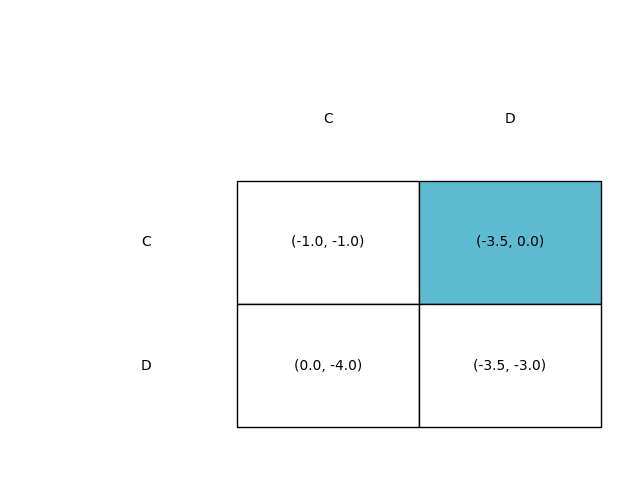
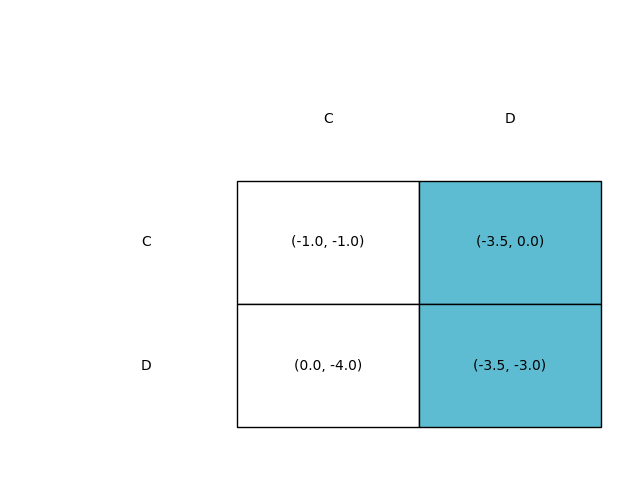
Found a solution using each method, and saved a png for it

Changed region(s): [[0.6562, 0.625, 0.9375, 0.9062]]

diff --git a/Ali_codes/GAMETES/NashEqFinder.py b/Ali_codes/GAMETES/NashEqFinder.py
@@ -513,6 +513,8 @@ class NashEqFinder(object):
                    elapsed_optlang_wt, elapsed_solver_pt,elapsed_solver_wt, \
                    elapsed_run_pt,elapsed_run_wt, \
                    len(self.game.payoff_matrix)) )
+        
+        # return show_matrix(self, self.game.payoff_matri, self.Nash_equilibria, self.strategies, method + "called by optlangFindPure")       
     
     def run(self):
         """
@@ -536,7 +538,7 @@ class NashEqFinder(object):
         elif self.NashEq_type.lower() == 'mixed':
             pass # To be completed
 
-        return [self.Nash_equilibria,self.exit_flag]
+        return [self.Nash_equilibria, self.exit_flag, self.game.payoff_matrix]
 
 
     # Elie
@@ -571,10 +573,11 @@ class NashEqFinder(object):
         def letter_to_position(letter):
             return strategies.index(letter) + 1
             
-        the_table[
-            letter_to_position(nash_equilibria[0][0][1]), 
-            letter_to_position(nash_equilibria[0][1][1])
-            ].set_facecolor('#5dbcd2')
+        for eq in range(len(nash_equilibria)):
+            the_table[
+                letter_to_position(nash_equilibria[eq][0][1]), 
+                letter_to_position(nash_equilibria[eq][1][1])
+                ].set_facecolor('#5dbcd2')
 
         for (row, col), cell in the_table.get_celld().items():
             cell.visible_edges = ''
@@ -584,10 +587,12 @@ class NashEqFinder(object):
         mpl.savefig(method + '.png')
         mpl.show()
 
+        
+
     # Elie
     def validate(self, nasheq_cells, method):
         # Validation: needs removal of hard coded methods
-        print("\n Validation for method %s\n", method)
+        print(f"\n Validation for method {method}\n")
 
         # Helper function
         def string_to_index(string):
@@ -597,6 +602,7 @@ class NashEqFinder(object):
             return (((lst[0],lst[1]), (lst[2],lst[3]))), player, sign
 
         original_payoff_matrix = copy.deepcopy(self.game.payoff_matrix)
+        
 
         # Creating new payoff matrix (i.e. the result of perterbations)
         for var_name, var in self.optModel.variables.items():
@@ -612,12 +618,15 @@ class NashEqFinder(object):
         
         # Define an instance of the NashEqFinder
         NashEqFinderInst = NashEqFinder(self.game, stdout_msgs = True)
-        [Nash_equilibria,exit_flag] = NashEqFinderInst.optlangRun()
+        [Nash_equilibria, exit_flag, _game_payoff_matrix] = NashEqFinderInst.optlangRun()
 
-        print("DONE")
+
+        self.show_matrix(original_payoff_matrix, Nash_equilibria, self.game.players_strategies['row'], method="Original_solution")
+
         
-        print ('exit_flag = ',exit_flag)
-        print ('Nash_equilibria = ',Nash_equilibria )
+        print(f"Validation for {method} returned these results:")
+        print ('exit_flag = ', exit_flag)
+        print ('Nash_equilibria = ', Nash_equilibria)
         for desired_state in nasheq_cells:
             if list(desired_state) in Nash_equilibria:
                 print('DESIRED STATE', desired_state, "ACHIEVED with these perturbations")
@@ -630,6 +639,7 @@ class NashEqFinder(object):
 
         print('self.game.players_strategies', self.game.players_strategies)
         self.show_matrix(self.game.payoff_matrix, Nash_equilibria, self.game.players_strategies['row'], method)
+        print(f"DONE Validation of {method}")
 
     # Elie
     def newEquilibria(self, nasheq_cells, strategies):
@@ -645,10 +655,13 @@ class NashEqFinder(object):
         As the objective function then, you minimize sum of all aa^+'s and 
         aa^-'s for all payoff. 
 
+        return: a model with the solutions' final model, which contains the 
+                optimal value of the variables and more
+
         """   
 
         # Adding new variables 
-        model = optlang.Model(name='Original Model')
+        model = optlang.Model(name=f'Original Model')
         model.players = self.game.players_names
         indices = [tuple([k3 for k2 in k1 for k3 in k2]) for k1 in self.game.payoff_matrix.keys()]
         new_indices = []
@@ -729,49 +742,52 @@ class NashEqFinder(object):
 
         original_payoff_matrix = copy.deepcopy(self.game.payoff_matrix)
 
-        self.validate(nasheq_cells, method="Original Model")
+        self.validate(nasheq_cells, method=f'Original Model with new equilibria={nasheq_cells}')
 
         self.game.payoff_matrix = original_payoff_matrix
 
         print('Original payoff matrix', self.game.payoff_matrix)
+
+        # return self.optModel, self.game
+
+
+    # # def method_2a()
+    #     print("\n Fixing all nonzero alphas \n")
+    #     # Fix all α's that were non-zero in the current solution at zero, so 
+    #     # those payoffs are not part of the future solutions at all.
+    #     fixing_all_nonzero_constraints = []
+    #     nonzero_vars = []
+    #     for var_name, var in self.optModel.variables.items():
+    #         if var.primal > 0:
+    #             nonzero_vars.append(var_name)
+    #             # Setting the variable to zero
+    #             c = optlang.Constraint(model.variables[var_name], lb=0, ub=0)
+    #             fixing_all_nonzero_constraints.append(c)
+    #             model.add(c) 
+
+    #     print('fixing_all_nonzero_constraints', fixing_all_nonzero_constraints)
         
+    #     self.optModel = model        
+    #     self.optModel.optimize()
 
-        # print("\n Fixing all nonzero alphas \n")
-        # # Fix all α's that were non-zero in the current solution at zero, so 
-        # # those payoffs are not part of the future solutions at all.
-        # fixing_all_nonzero_constraints = []
-        # nonzero_vars = []
-        # for var_name, var in self.optModel.variables.items():
-        #     if var.primal > 0:
-        #         nonzero_vars.append(var_name)
-        #         # Setting the variable to zero
-        #         c = optlang.Constraint(model.variables[var_name], lb=0, ub=0)
-        #         fixing_all_nonzero_constraints.append(c)
-        #         model.add(c) 
+    #     print('FINAL optlang model', model)
 
-        # print('fixing_all_nonzero_constraints', fixing_all_nonzero_constraints)
+    #     # Print the results on the screen 
+    #     print("status:", self.optModel.status)
+    #     print("objective value:", self.optModel.objective.value)
+    #     print("----------")
+    #     for var_name, var in self.optModel.variables.items():
+    #         print(var_name, "=", var.primal)
+
+    #     original_payoff_matrix = copy.deepcopy(self.game.payoff_matrix)
+    #     self.validate(nasheq_cells, method="Method 1 — nonzero")
+    #     self.game.payoff_matrix = original_payoff_matrix
         
-        # self.optModel = model        
-        # self.optModel.optimize()
+    #     # Extremely important step
+    #     model.remove(fixing_all_nonzero_constraints)
+    #     print('Original payoff matrix', self.game.payoff_matrix)
 
-        # print('FINAL optlang model', model)
-
-        # # Print the results on the screen 
-        # print("status:", self.optModel.status)
-        # print("objective value:", self.optModel.objective.value)
-        # print("----------")
-        # for var_name, var in self.optModel.variables.items():
-        #     print(var_name, "=", var.primal)
-
-        # original_payoff_matrix = copy.deepcopy(self.game.payoff_matrix)
-        # self.validate(nasheq_cells, method="Method 1 — nonzero"))
-        # self.game.payoff_matrix = original_payoff_matrix
-        
-        # # Extremely important step
-        # model.remove(fixing_all_nonzero_constraints)
-        # print('Original payoff matrix', self.game.payoff_matrix)
-
-        # Method 2a
+        # # Method 2a
         # print("\n Method 2a \n")
         # # For each non-zero α whose optimal value is α^opt, add on of the 
         # # following constraints:
@@ -782,8 +798,9 @@ class NashEqFinder(object):
 
         # method_2a_constraints = []
         # method_2a_variables_names = copy.deepcopy(variables_names)
-        # # for epsilon in [0.01, 0.5]:
-        # epsilon = 0.5
+        # # print('[0.1 * x for x in range(1, 11)]', [0.1 * x for x in range(1, 11)])
+        # # for epsilon in [0.1 * x for x in range(1, 11)]:
+        # epsilon = 1
         # for var_name, var in self.optModel.variables.items():
         #     # Didn't work without it, which is weird
         #     if var.primal > 0:
@@ -922,7 +939,7 @@ class NashEqFinder(object):
         binary_constraints = []
         binary_variables_names = copy.deepcopy(variables_names)
 
-        epsilon = 20
+        epsilon = 0.01
         ub = 1000
         lb = -1000
         for var_name, var in self.optModel.variables.items():
@@ -978,7 +995,53 @@ class NashEqFinder(object):
         model.remove(binary_constraints)
         print('Original payoff matrix', self.game.payoff_matrix)
 
+
+
+# Elie
+def show_matrix(payoff_matrix, nash_equilibria, strategies, method):        
+    fig, ax = mpl.subplots()
+    fig.patch.set_visible(False)
+    ax.axis('off')
+    ax.axis('tight')
+
+    def payoffs_to_table(payoff_matrix): 
+        col_text =  [''] + strategies
+        table_text = []
+        for i in strategies:
+            row = [i]
+            for j in strategies:
+                row.append(
+                    (payoff_matrix[(('row', i),('column', j))]['row'], \
+                    payoff_matrix[(('row', i),('column', j))]['column'])
+                )
+            table_text.append(row)
+
+        return col_text, table_text
+
+
+    table = payoffs_to_table(payoff_matrix)
+    the_table = ax.table(colWidths=[.3,.3,.3],
+                        cellText=table[1], colLabels=table[0],
+                        loc='center', bbox=[-0.05, 0, 1.1, 1.0],
+                        rowLoc='center', colLoc='center', cellLoc='center')
+    the_table.scale(1, 7)
+
+    def letter_to_position(letter):
+        return strategies.index(letter) + 1
         
+    for eq in range(len(nash_equilibria)):
+        the_table[
+            letter_to_position(nash_equilibria[eq][0][1]), 
+            letter_to_position(nash_equilibria[eq][1][1])
+            ].set_facecolor('#5dbcd2')
+
+    for (row, col), cell in the_table.get_celld().items():
+        cell.visible_edges = ''
+        if col != 0 and row != 0:
+            cell.visible_edges = 'closed'
+
+    mpl.savefig(method + '.png')
+    mpl.show()
 
 #--------- Sample implementation ------
 if __name__ == "__main__":
@@ -1010,8 +1073,10 @@ if __name__ == "__main__":
     # Define an instance of the NashEqFinder
     NashEqFinderInst = NashEqFinder(PD, stdout_msgs = True)
     # [Nash_equilibria,exit_flag] = NashEqFinderInst.run()
-    # [Nash_equilibria,exit_flag] = NashEqFinderInst.optlangRun()
-    NashEqFinderInst.newEquilibria(nasheq_cells=[(('row','C'),('column','D'))], strategies=['C', 'D'])
+    # [Nash_equilibria, exit_flag, game_payoff_matrix] = NashEqFinderInst.optlangRun()
+    # show_matrix(game_payoff_matrix, Nash_equilibria, players_strategies['row'], "Original Game called by optlangFindPure")       
+
+    NashEqFinderInst.newEquilibria(nasheq_cells=[(('row','C'), ('column','D'))], strategies=['C', 'D'])
 
     # # Validation:
     # payoff_matrix = {}
